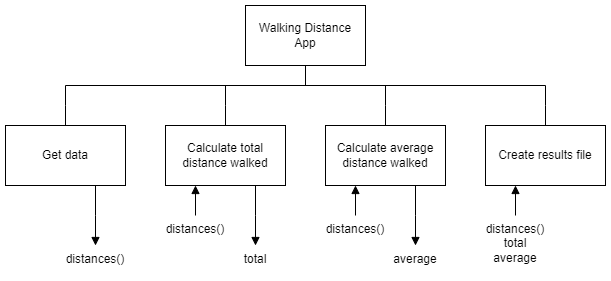
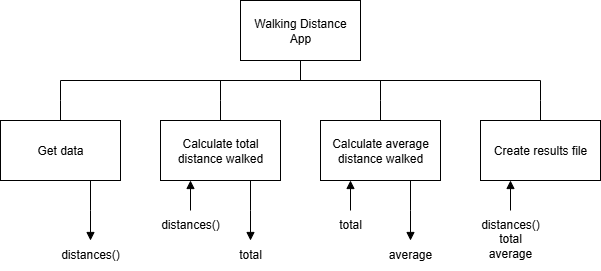
Updated

diff --git a/h-cs/sdd/H-SDD-Walking/assets/solution.py b/h-cs/sdd/H-SDD-Walking/assets/solution.py
@@ -1,56 +1,113 @@
 # Title: H SDD Walking
 # Author: Mr Friend
-# Date: 21 Aug 2024
+# Date: 24 Jun 2026
 
-# Initilise Global Variables
 
-distance = 0.0
-distances = [0.0] * 4
-total = 0.0
-average = 0.0
-
-# Message
-print("Enter the distance walked each week:")
-
-# Loop for each week
-for index in range(len(distances)):
+def getData() -> list[float]:
+    """Get the walking distances of four weeks."""
     
-    # Get distance walked
-    distance = float(input("Week " + str(index+1) + ": "))
-    
-    # Re-enter if invalid
-    while distance < 0:
-        # Error message
-        print("\nDistance must be 0 or more")
-    
+    # Local variables
+    distance: float = 0.0
+    distances: list[float] = [0.0] * 4
+
+    # Message
+    print("Enter the distance walked each week:\n")
+
+    # Loop for each week
+    for index in range(len(distances)):
+        
         # Get distance walked
         distance = float(input("Week " + str(index+1) + ": "))
         
-    # Store distance
-    distances[index] = distance
+        # Re-enter if invalid
+        while distance < 0:
+            # Error message
+            print("\nDistance must be 0 or more")
+        
+            # Get distance walked
+            distance = float(input("Week " + str(index+1) + ": "))
+            
+        # Store distance
+        distances[index] = distance
     
-    # Calculate total
-    total = total + distance
+    # End function
+    return distances
+
+
+def calcTotal(distances: list[float]) -> float:
+    """Calculate the total distance walked."""
     
-# Calculate average (1 dp)
-average = round(total/4 , 1)
+    # Local variable
+    total: float = 0.0
 
-# Open a connect to the file
-file = open("walking.txt", "w", encoding="UTF-8")
-
-# Write heading
-file.write("Walking Results - 4 Weeks\n")
-file.write("-------------------------\n\n")
-
-# Write distances walked
-for index in range(len(distances)):
-    file.write("Week " + str(index+1) + ": " + str(distances[index]) + "\n")
+    # loop for each distance
+    for distance in distances:
+        
+        # Increase total
+        total = total + distance
     
-# Write total
-file.write("\nTotal: " + str(total) + " miles\n")
+    # End function
+    return total
 
-# Write total
-file.write("\nAverage: " +str(average) + "miles 1 (dp)")
 
-# Close connection to file
-file.close()
+def calcAverage(total: float) -> float:
+    """Calculate the average distance walked."""
+    
+    # Local variable
+    average: float = 0.0
+    
+    # Calculate the average distance to 1 dp
+    average = round(total / 4, 1)
+    
+    # End function
+    return average
+
+
+def writeData(distances: list[float], total: float,
+              average: float) -> None:
+    """Write the results to a file."""
+    
+    # Connect to the file
+    file = open("walking.txt", "w", encoding="utf-8")
+    
+    # Write header
+    file.write("Walking Results - 4 Weeks\n")
+    file.write("-------------------------\n\n")
+    
+    # Write distances
+    for index in range(len(distances)):
+        
+        file.write("Week " + str(index+1) + ": "
+                   + str(distances[index]) + "\n")
+    
+    # Write total distance
+    file.write("\nTotal: " + str(total) + " miles\n")
+    
+    # Write average distance
+    file.write("\nAverage: " + str(average) + " miles (1 dp)\n")
+    
+    # Close connection to file
+    file.close()
+    
+
+#
+# Main Program
+#
+
+
+# Global variables
+distances: list[float] = [0.0] * 4
+total: float = 0.0
+average: float = 0.0
+
+# Get data
+distances = getData()
+
+# Calculate total distance walked
+total = calcTotal(distances)
+
+# Calculate average distance walked
+average = calcAverage(total)
+
+# Create results file
+writeData(distances, total, average)

diff --git a/h-cs/sdd/H-SDD-Walking/assets/solution2.py b/h-cs/sdd/H-SDD-Walking/assets/solution2.py
@@ -1,0 +1,56 @@
+# Title: H SDD Walking
+# Author: Mr Friend
+# Date: 21 Aug 2024
+
+# Initilise Global Variables
+
+distance = 0.0
+distances = [0.0] * 4
+total = 0.0
+average = 0.0
+
+# Message
+print("Enter the distance walked each week:")
+
+# Loop for each week
+for index in range(len(distances)):
+    
+    # Get distance walked
+    distance = float(input("Week " + str(index+1) + ": "))
+    
+    # Re-enter if invalid
+    while distance < 0:
+        # Error message
+        print("\nDistance must be 0 or more")
+    
+        # Get distance walked
+        distance = float(input("Week " + str(index+1) + ": "))
+        
+    # Store distance
+    distances[index] = distance
+    
+    # Calculate total
+    total = total + distance
+    
+# Calculate average (1 dp)
+average = round(total/4 , 1)
+
+# Open a connect to the file
+file = open("walking.txt", "w", encoding="UTF-8")
+
+# Write heading
+file.write("Walking Results - 4 Weeks\n")
+file.write("-------------------------\n\n")
+
+# Write distances walked
+for index in range(len(distances)):
+    file.write("Week " + str(index+1) + ": " + str(distances[index]) + "\n")
+    
+# Write total
+file.write("\nTotal: " + str(total) + " miles\n")
+
+# Write total
+file.write("\nAverage: " +str(average) + "miles 1 (dp)")
+
+# Close connection to file
+file.close()

diff --git a/h-cs/sdd/H-SDD-Walking/assets/starterCode.py b/h-cs/sdd/H-SDD-Walking/assets/starterCode.py
@@ -1,0 +1,69 @@
+# Title: H SDD Walking
+# Author: 
+# Date: 
+
+
+def getData() -> list[float]:
+    """Get the walking distances of four weeks."""
+    
+    # Local variables
+    distance: float = 0.0
+    distances: list[float] = [0.0] * 4
+    
+    
+    
+    # End function
+    return distances
+
+
+def calcTotal(distances: list[float]) -> float:
+    """Calculate the total distance walked."""
+    
+    # Local variable
+    total: float = 0.0
+    
+    
+    
+    # End function
+    return total
+
+
+def calcAverage(total: float) -> float:
+    """Calculate the average distance walked."""
+    
+    # Local variable
+    average: float = 0.0
+    
+    
+    
+    # End function
+    return average
+
+
+def writeData(distances: list[float], total: float,
+              average: float) -> None:
+    """Write the results to a file."""
+    
+    
+
+#
+# Main Program
+#
+
+
+# Global variables
+distances: list = [0.0] * 4
+total: float = 0.0
+average: float = 0.0
+
+# Get data
+distances = getData()
+
+# Calculate total distance walked
+total = calcTotal(distances)
+
+# Calculate average distance walked
+average = calcAverage(total)
+
+# Create results file
+writeData(distances, total, average)

diff --git a/h-cs/sdd/H-SDD-Summer/Orig2.md b/h-cs/sdd/H-SDD-Summer/Orig2.md
@@ -1,0 +1,87 @@
+# H SDD - Summer Part 1
+
+## Introduction
+
+Create a file called `summer1.py`. The file will contain the code for the following functions:
+
+* _circumference_
+* _radius_
+* _diamter_
+* _area_
+
+
+## Assumptions
+
+1. Pi is `3.1415`.
+2. If invalid values are passed to a function, then `-1.0` (Minus one) will be returned.
+
+
+## Functions
+
+
+### circumference()
+
+Create a function (`circumference`) that will accept a real value and a character.  The real value will represent the size of the radius or diameter, and the character will clarify which it is.  The function will calculate and return the circumference of a circle, rounded to 4 decimal places.
+
+__Stretch task__: If only a single parameter is passed to the function, it will calculate the circumference with the value used as the diameter.
+
+#### Examples
+
+| Input                 | Output | Comment |
+| -----                 | ------ | ------- |
+| circumference(1, "d") | 3.1415 | |
+| circumference(1, "r") | 6.283  | |
+| circumference(10)     | 31.415 | Stretch task |
+
+
+### radius()
+
+Create a function (`radius`) that will accept a real value and a character.  The real value will represent the size of the diameter or circumference, and the character will clarify which it is.  The function will calculate and return the radius of a circle, rounded to 4 decimal places.
+
+__Stretch task__: If only a single parameter is passed to the function, it will calculate the radius with the value used as the diameter.
+
+#### Examples
+
+| Input              | Output | Comment |
+| -----              | ------ | ------- |
+| radius(1, "d")     | 0.5    | |
+| radius(6.283, "c") | 1.0    | |
+| radius(10)         | 5.0    | Stretch task |
+
+
+### diameter()
+
+Create a function (`diameter`) that will accept a real value and a character.  The real value will represent the size of the radius or circumference, and the character will clarify which it is.  The function will calculate and return the diameter of a circle, rounded to 4 decimal places.
+
+__Stretch task__: If only a single parameter is passed to the function, it will calculate the diameter with the value used as the radius.
+
+#### Examples
+
+| Input                | Output | Comment |
+| -----                | ------ | ------- |
+| diameter(2, "r")     | 4.0    | |
+| diameter(6.283, "c") | 5.0    | |
+| diameter(10)         | 20.0   | Stretch task |
+
+
+### area()
+
+Create a function (`area`) that will accept a real value and a character.  The real value will represent the size of the radius, diameter, or circumference.  The character will clarify which it is.  The function will calculate and return the area of a circle, rounded to 4 decimal places.
+
+__Stretch task__: If only a single parameter is passed to the function, it will calculate the area with the value used as the radius.
+
+#### Examples
+
+| Input        | Output | Comment |
+| -----        | ------ | ------- |
+| area(1, "r") | 3.1415 | |
+| area(6, "d") | 0.5    | |
+| area(6, "c") | 0.5    | |
+| area(2)      | 12.566 | Stretch task |
+
+
+## Testing
+
+Test the functions to ensure they work.  Apart from TAD, remove any code that is not in the functions.
+
+Save the file [`summer1Tests.py`](assets/summer1Tests.py) to the same folder as `summer1.py`.  Open and run `summer1Tests.py`.

diff --git a/h-cs/sdd/H-SDD-Summer/index3.md b/h-cs/sdd/H-SDD-Summer/index3.md
@@ -34,7 +34,7 @@ Create a function (`letterTypes`) that will accept a string.  The function will 
 | Input                         | Output | Comment |
 | -----                         | ------ | ------- |
 | letterTypes("Hello")          | (1, 4) | |
-| letterTypes("Fun! Fun! Fun!") | (1, 3) | |
+| letterTypes("Fun! Fun! Fun!") | (3, 6) | |
 | letterTypes("####! ####!")    | (0, 0) | |
 
 

diff --git a/h-cs/sdd/H-SDD-Walking/README.md b/h-cs/sdd/H-SDD-Walking/README.md
@@ -39,3 +39,10 @@ Total: 45.8 miles
 
 Average: 11.4 miles (1 dp)
 ```
+
+
+## Implementation
+
+Starter code is available.
+
+File: [`starterCode.py`](assets/starterCode.py)
